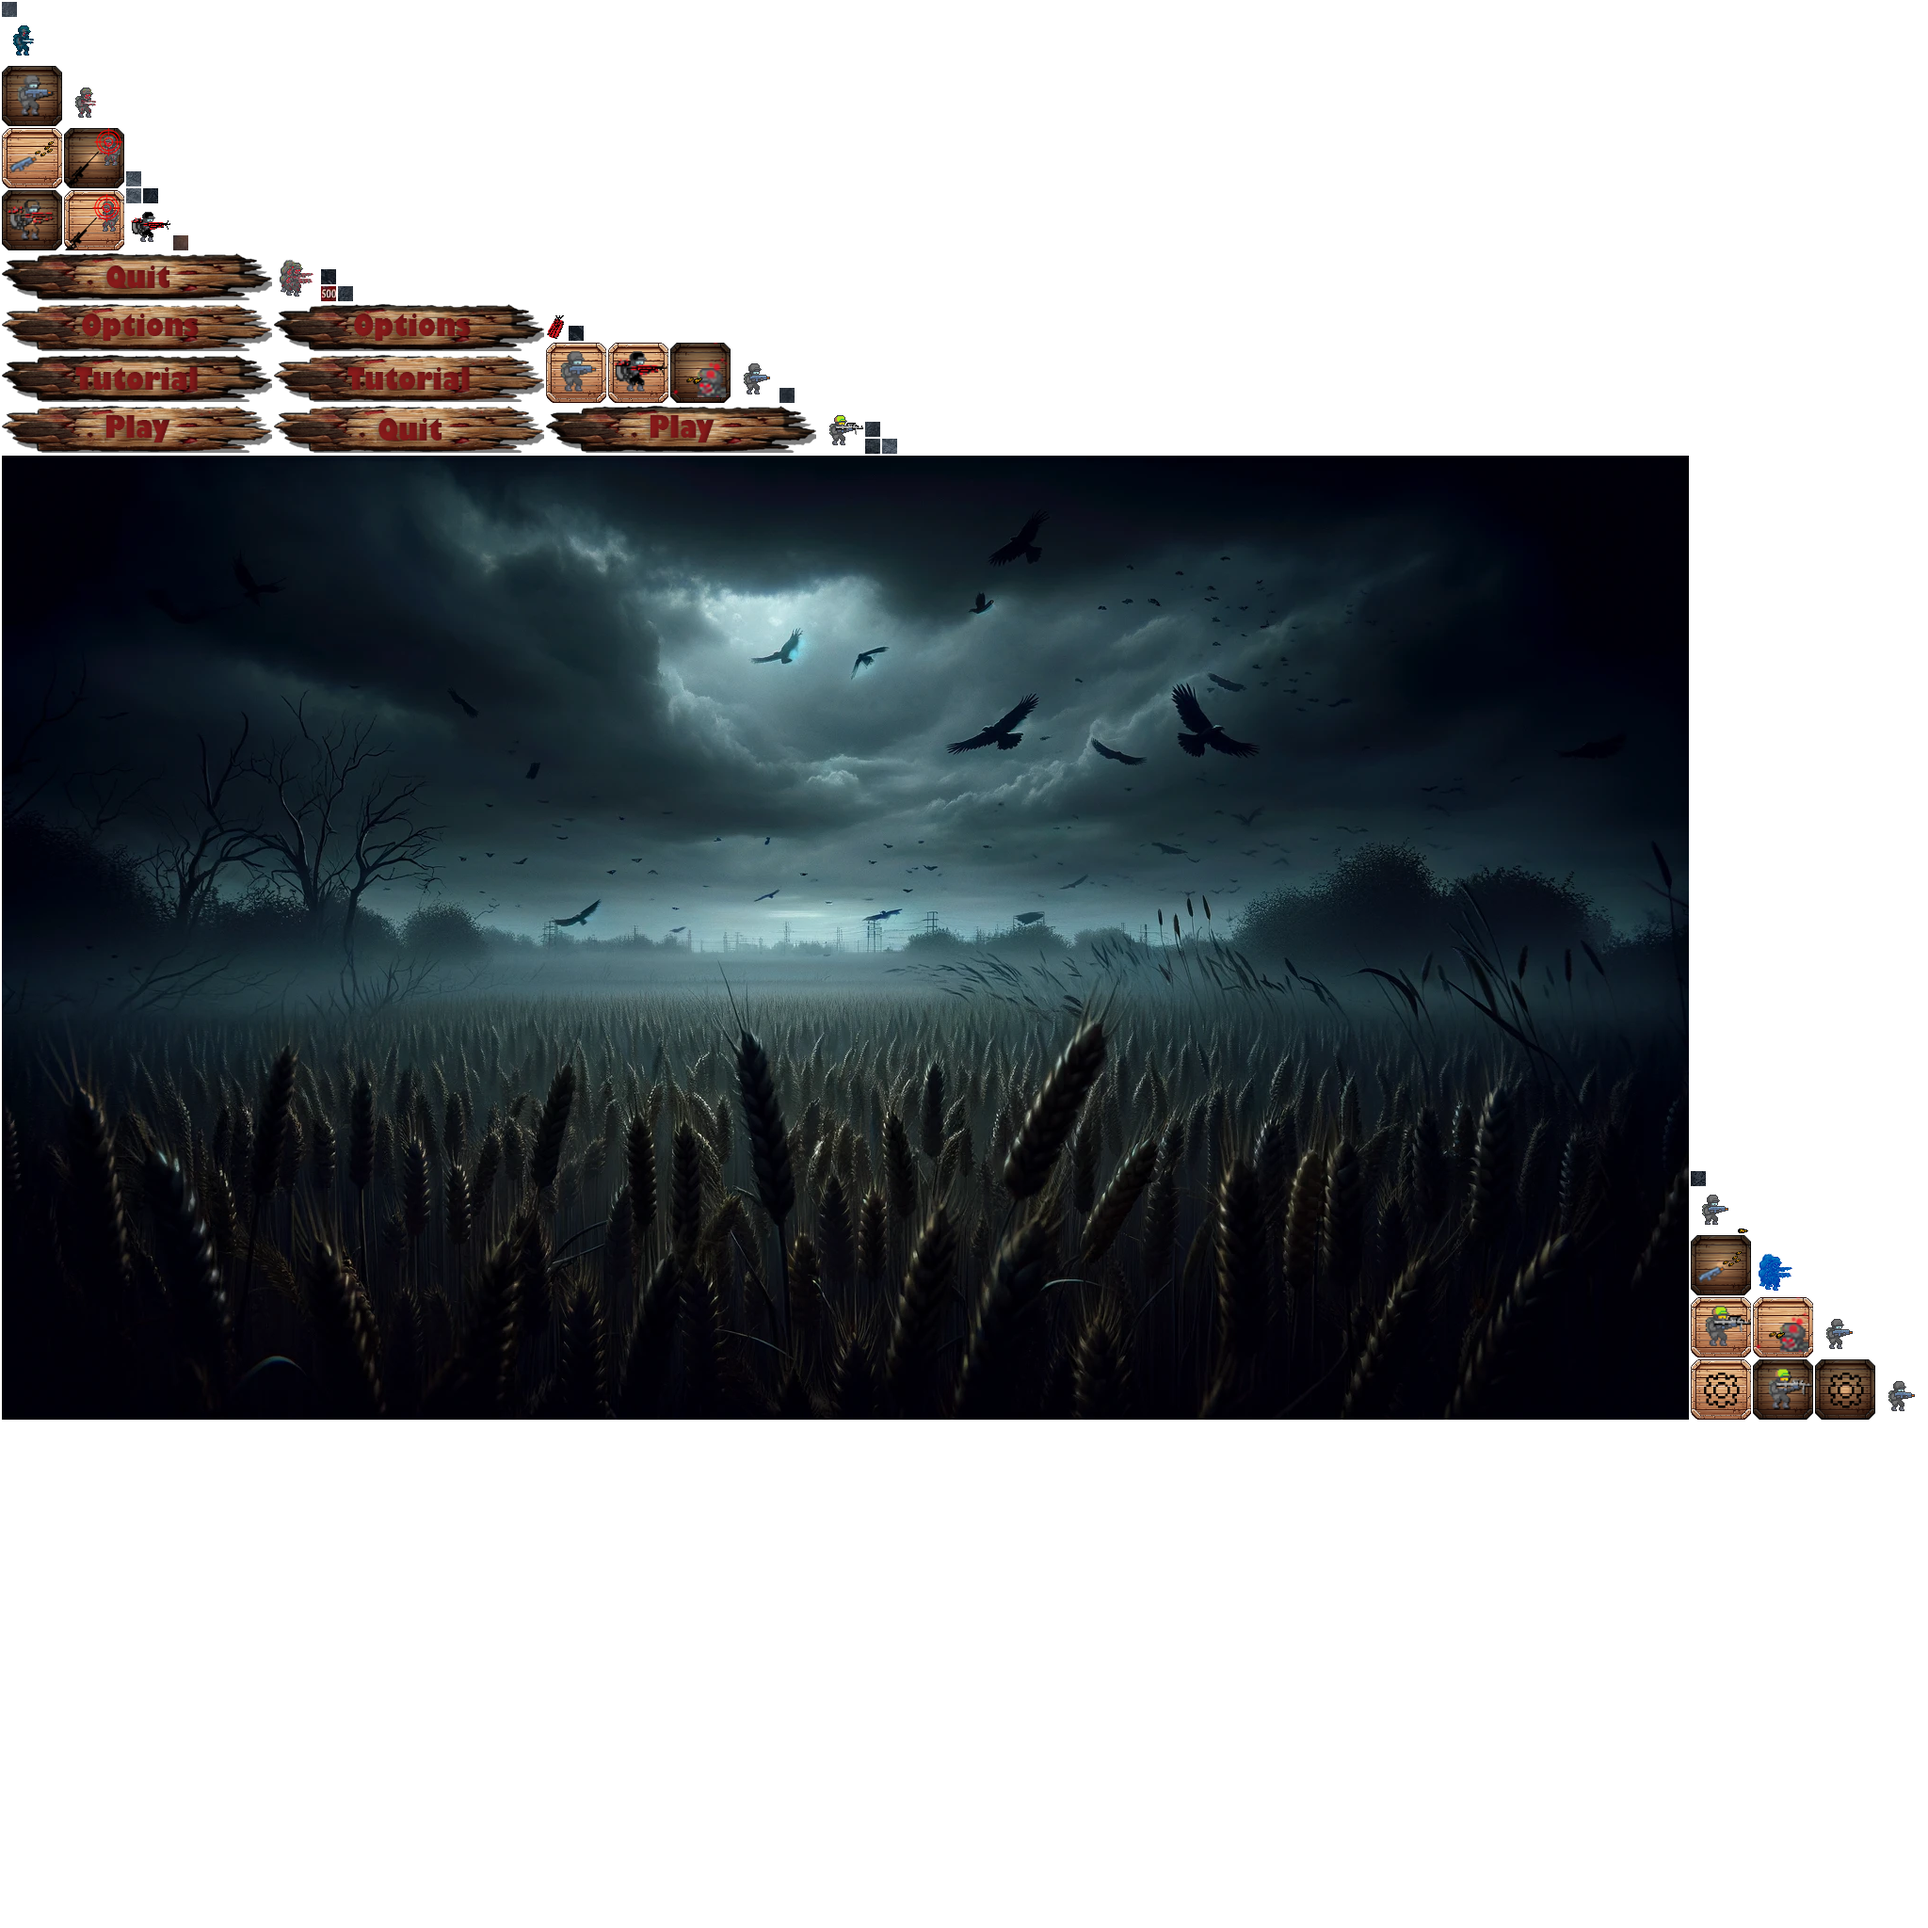
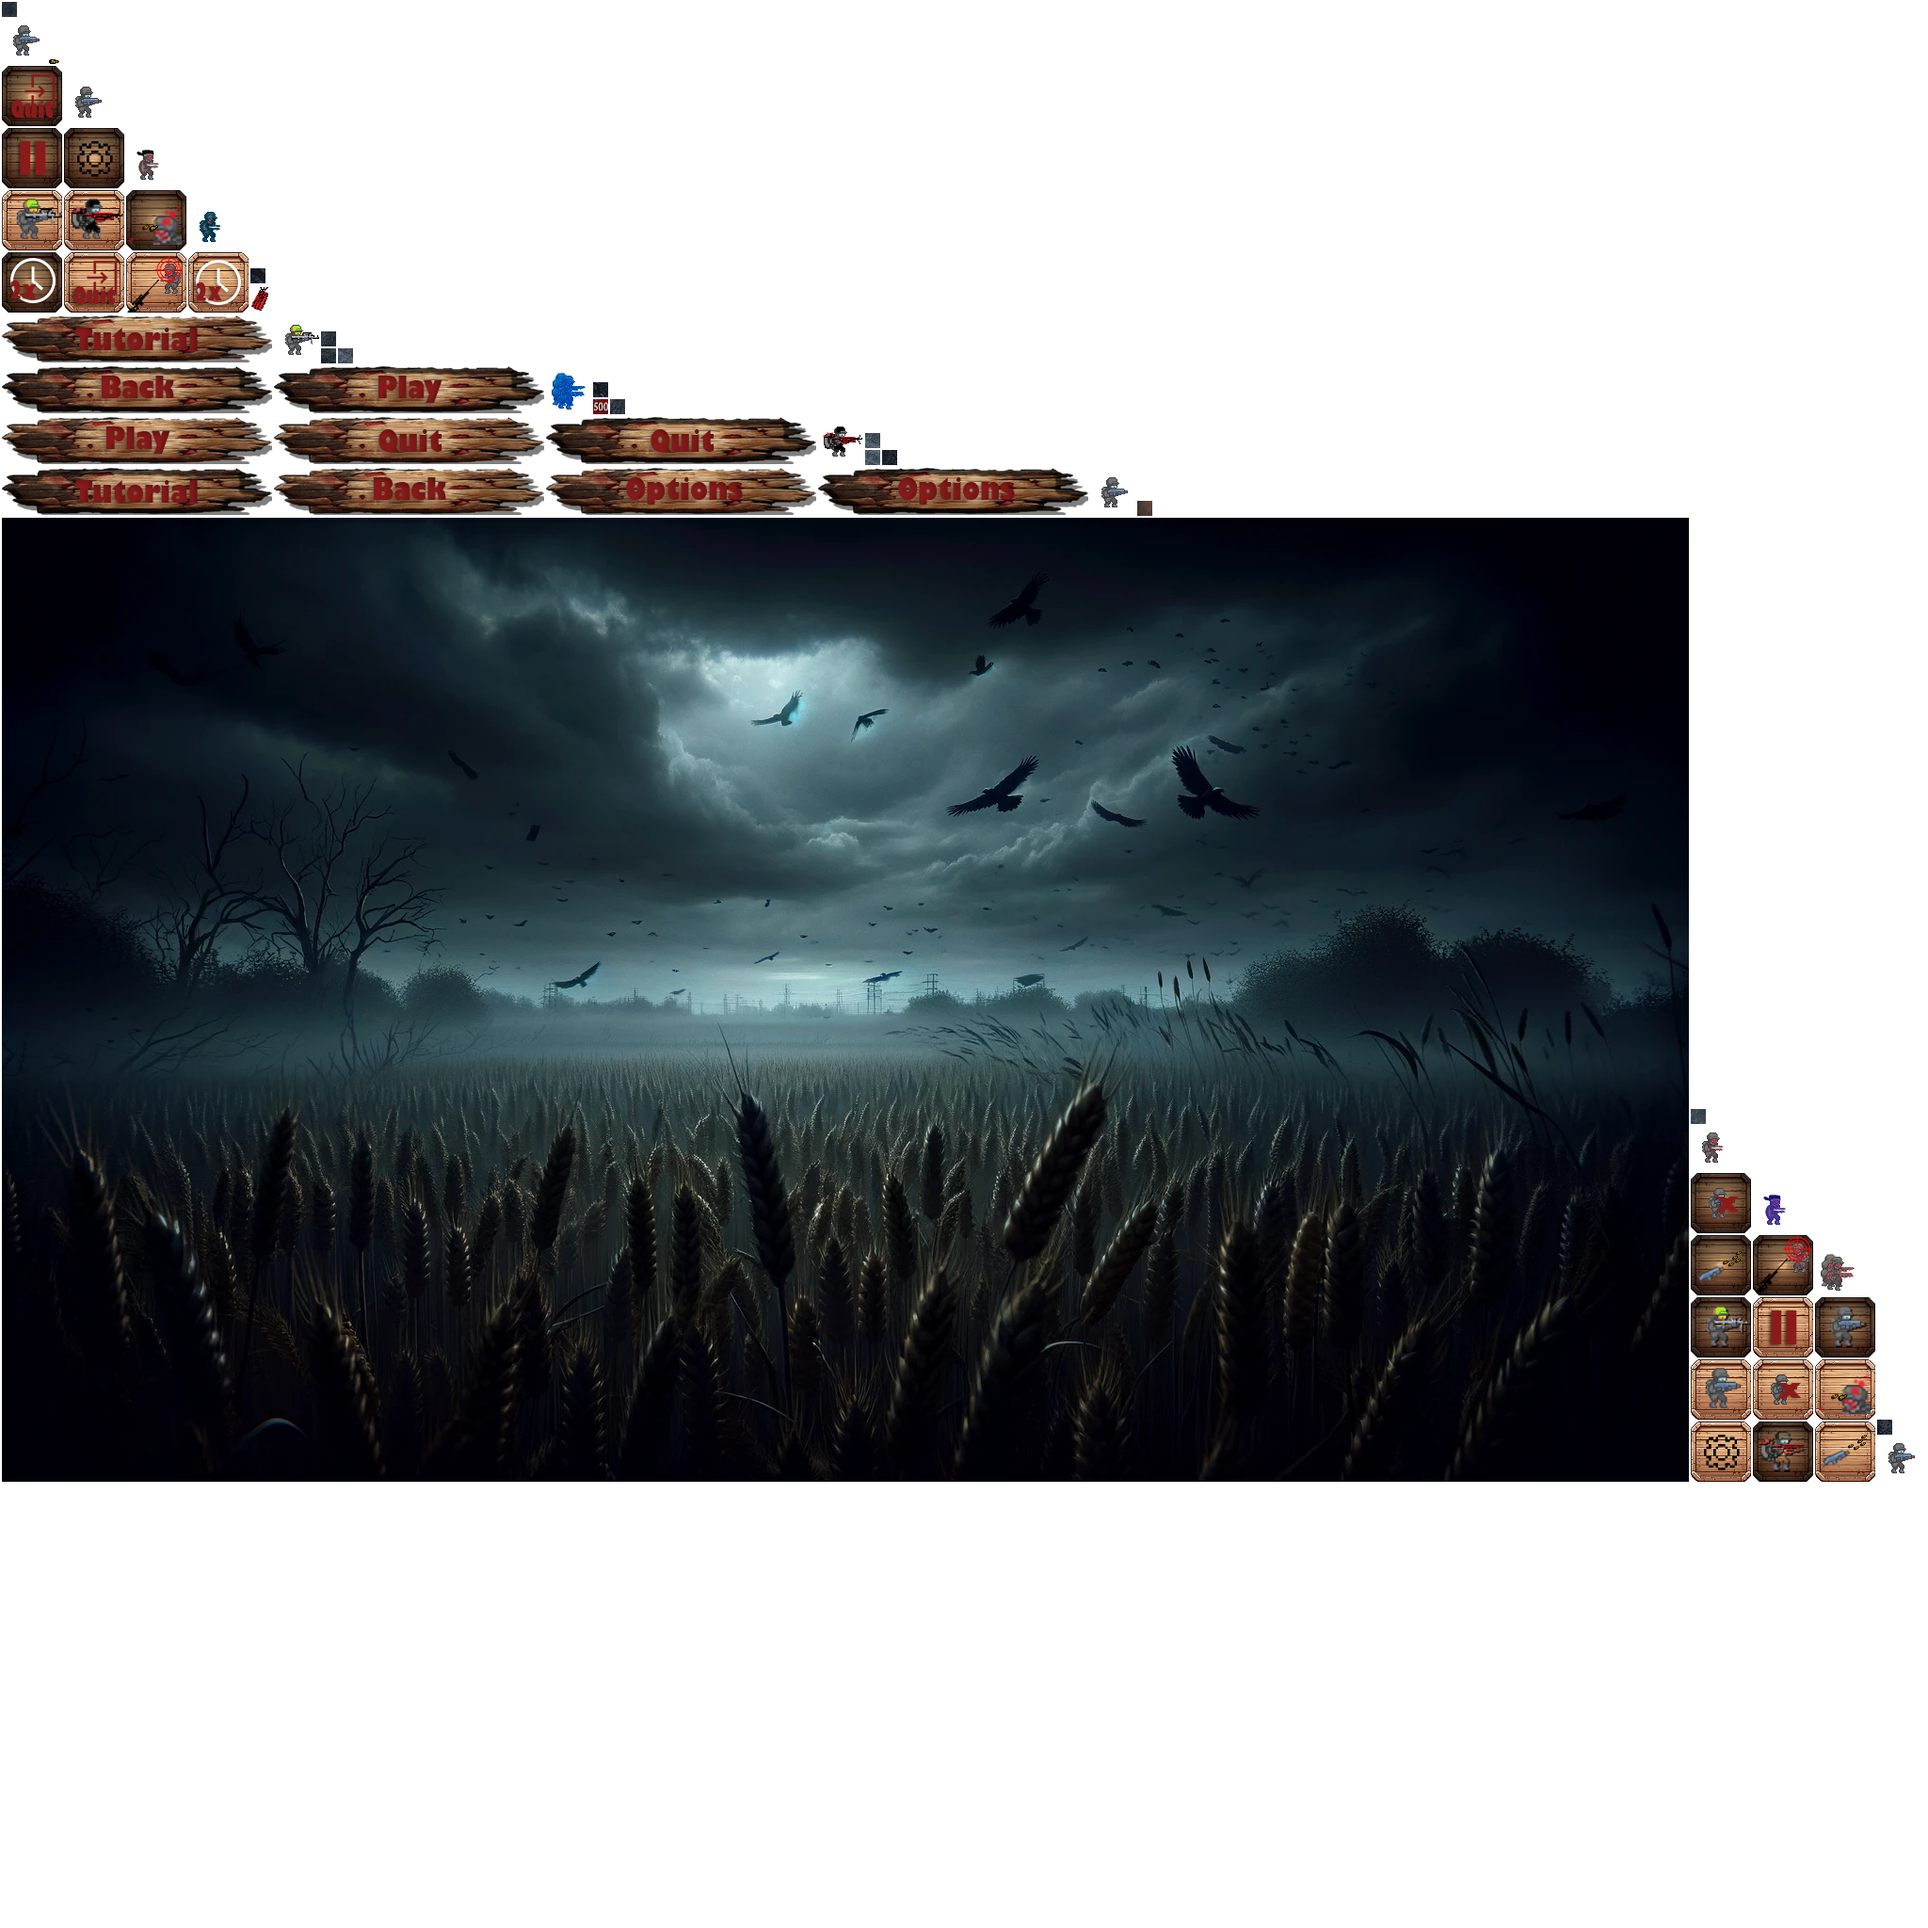
added rest of missing textures.

Changed region(s): [[0.0, 0.0, 1.0, 0.7812], [0.0938, 0.3438, 0.2188, 0.4062], [0.7812, 0.625, 0.8125, 0.6875]]

diff --git a/src/main/java/inf112/skeleton/app/scene/PlayScene.java b/src/main/java/inf112/skeleton/app/scene/PlayScene.java
@@ -237,7 +237,7 @@ public class PlayScene extends AbstractGameScene {
             }
         });
 
-        removeDefenderButton = new Button(uimenuskin, "bombertower");
+        removeDefenderButton = new Button(uimenuskin, "removebutton");
         optionslayer.add(removeDefenderButton).padBottom(10).padLeft(50).size(50);  // Add padding at the bottom if needed
         removeDefenderButton.addListener(new ChangeListener() {
             @Override
@@ -247,7 +247,7 @@ public class PlayScene extends AbstractGameScene {
         });
         optionslayer.row();
 
-        doubleSpeedButton = new Button(uimenuskin, "gunnertower");
+        doubleSpeedButton = new Button(uimenuskin, "2xbutton");
         optionslayer.add(doubleSpeedButton).padBottom(10).size(40);  // Add padding at the bottom if needed
         doubleSpeedButton.addListener(new ChangeListener() {
             @Override
@@ -263,7 +263,7 @@ public class PlayScene extends AbstractGameScene {
             }
         });
 
-        pauseButton = new Button(uimenuskin, "bombertower");
+        pauseButton = new Button(uimenuskin, "pausebutton");
         optionslayer.add(pauseButton).padBottom(10).size(40);  // Add padding at the bottom if needed
         pauseButton.addListener(new ChangeListener() {
             @Override
@@ -279,7 +279,7 @@ public class PlayScene extends AbstractGameScene {
             }
         });
 
-        exitButton = new Button(uimenuskin, "snipertower");
+        exitButton = new Button(uimenuskin, "quitbutton");
         optionslayer.add(exitButton).padBottom(10).size(40);  // Add padding at the bottom if needed
         exitButton.addListener(new ChangeListener() {
             @Override

diff --git a/src/main/java/inf112/skeleton/app/scene/HowToPlayScene.java b/src/main/java/inf112/skeleton/app/scene/HowToPlayScene.java
@@ -89,19 +89,19 @@ public class HowToPlayScene extends AbstractGameScene{
 
 
         // Descriptions for zombies
-        Image regularZomIMG = new Image(atlas.findRegion("gunna2"));
+        Image regularZomIMG = new Image(atlas.findRegion("regularzombie"));
         layer.add(regularZomIMG).pad(2);
         Label regularZom = new Label("Regular zombie: Normal speed and health", uiskin);
         layer.add(regularZom).pad(2).colspan(5).center();
         layer.row();
 
-        Image tankZomIMG = new Image(atlas.findRegion("gunna2"));
+        Image tankZomIMG = new Image(atlas.findRegion("tankzombie"));
         layer.add(tankZomIMG).pad(2);
         Label tankZom = new Label("Tank zombie: Slow speed and high health", uiskin);
         layer.add(tankZom).pad(2).colspan(5).center();
         layer.row();
 
-        Image speedZomIMG = new Image(atlas.findRegion("gunna2"));
+        Image speedZomIMG = new Image(atlas.findRegion("runnerzombie"));
         layer.add(speedZomIMG).pad(2);
         Label speedZom = new Label("Speed zombie: Fast speed and low health", uiskin);
         layer.add(speedZom).pad(2).colspan(5).center();
@@ -127,7 +127,7 @@ public class HowToPlayScene extends AbstractGameScene{
         layer.row();
 
         // + Back button
-        backButton = new Button(uiskin, "play"); // make a new back button
+        backButton = new Button(uiskin, "back"); // make a new back button
         layer.add(backButton).pad(10).center().colspan(5);
         backButton.addListener(new ChangeListener() { // todo: lage general lambda-expression for listeners
             @Override

diff --git a/src/main/java/inf112/skeleton/app/util/GameAssets.java b/src/main/java/inf112/skeleton/app/util/GameAssets.java
@@ -21,6 +21,7 @@ public class GameAssets implements Disposable {
     public static TextureAtlas.AtlasRegion zombieTexture;
     public static TextureAtlas.AtlasRegion slowedzombieTexture;
     public static TextureAtlas.AtlasRegion slowedtankTexture;
+    public static TextureAtlas.AtlasRegion slowedrunnerTexture;
     public static TextureAtlas.AtlasRegion tankTexture;
     public static TextureAtlas.AtlasRegion quickZombieTexture;
 
@@ -65,11 +66,12 @@ public class GameAssets implements Disposable {
         gunnerTexture = atlas.findRegion("gunna0");
         sniperTexture = atlas.findRegion("snipa0");
         bomberTexture = atlas.findRegion("bomba0");
-        zombieTexture = atlas.findRegion("regularzombie");//FIX change atlas when available
+        zombieTexture = atlas.findRegion("regularzombie");
         slowedzombieTexture = atlas.findRegion("frozenregularzombie");
-        tankTexture = atlas.findRegion(("tankzombie"));//FIX change atlas when available
+        tankTexture = atlas.findRegion(("tankzombie"));
         slowedtankTexture = atlas.findRegion("frozentankzombie");
-        quickZombieTexture = atlas.findRegion("snipa0");//FIX change atlas when available
+        quickZombieTexture = atlas.findRegion("runnerzombie");
+        slowedrunnerTexture = atlas.findRegion("frozenrunnerzombie");
         pathTexture = atlas.findRegion("path");
         bombTexture = atlas.findRegion("bomb");
         groundTexture = atlas.findRegion("gritty1");
